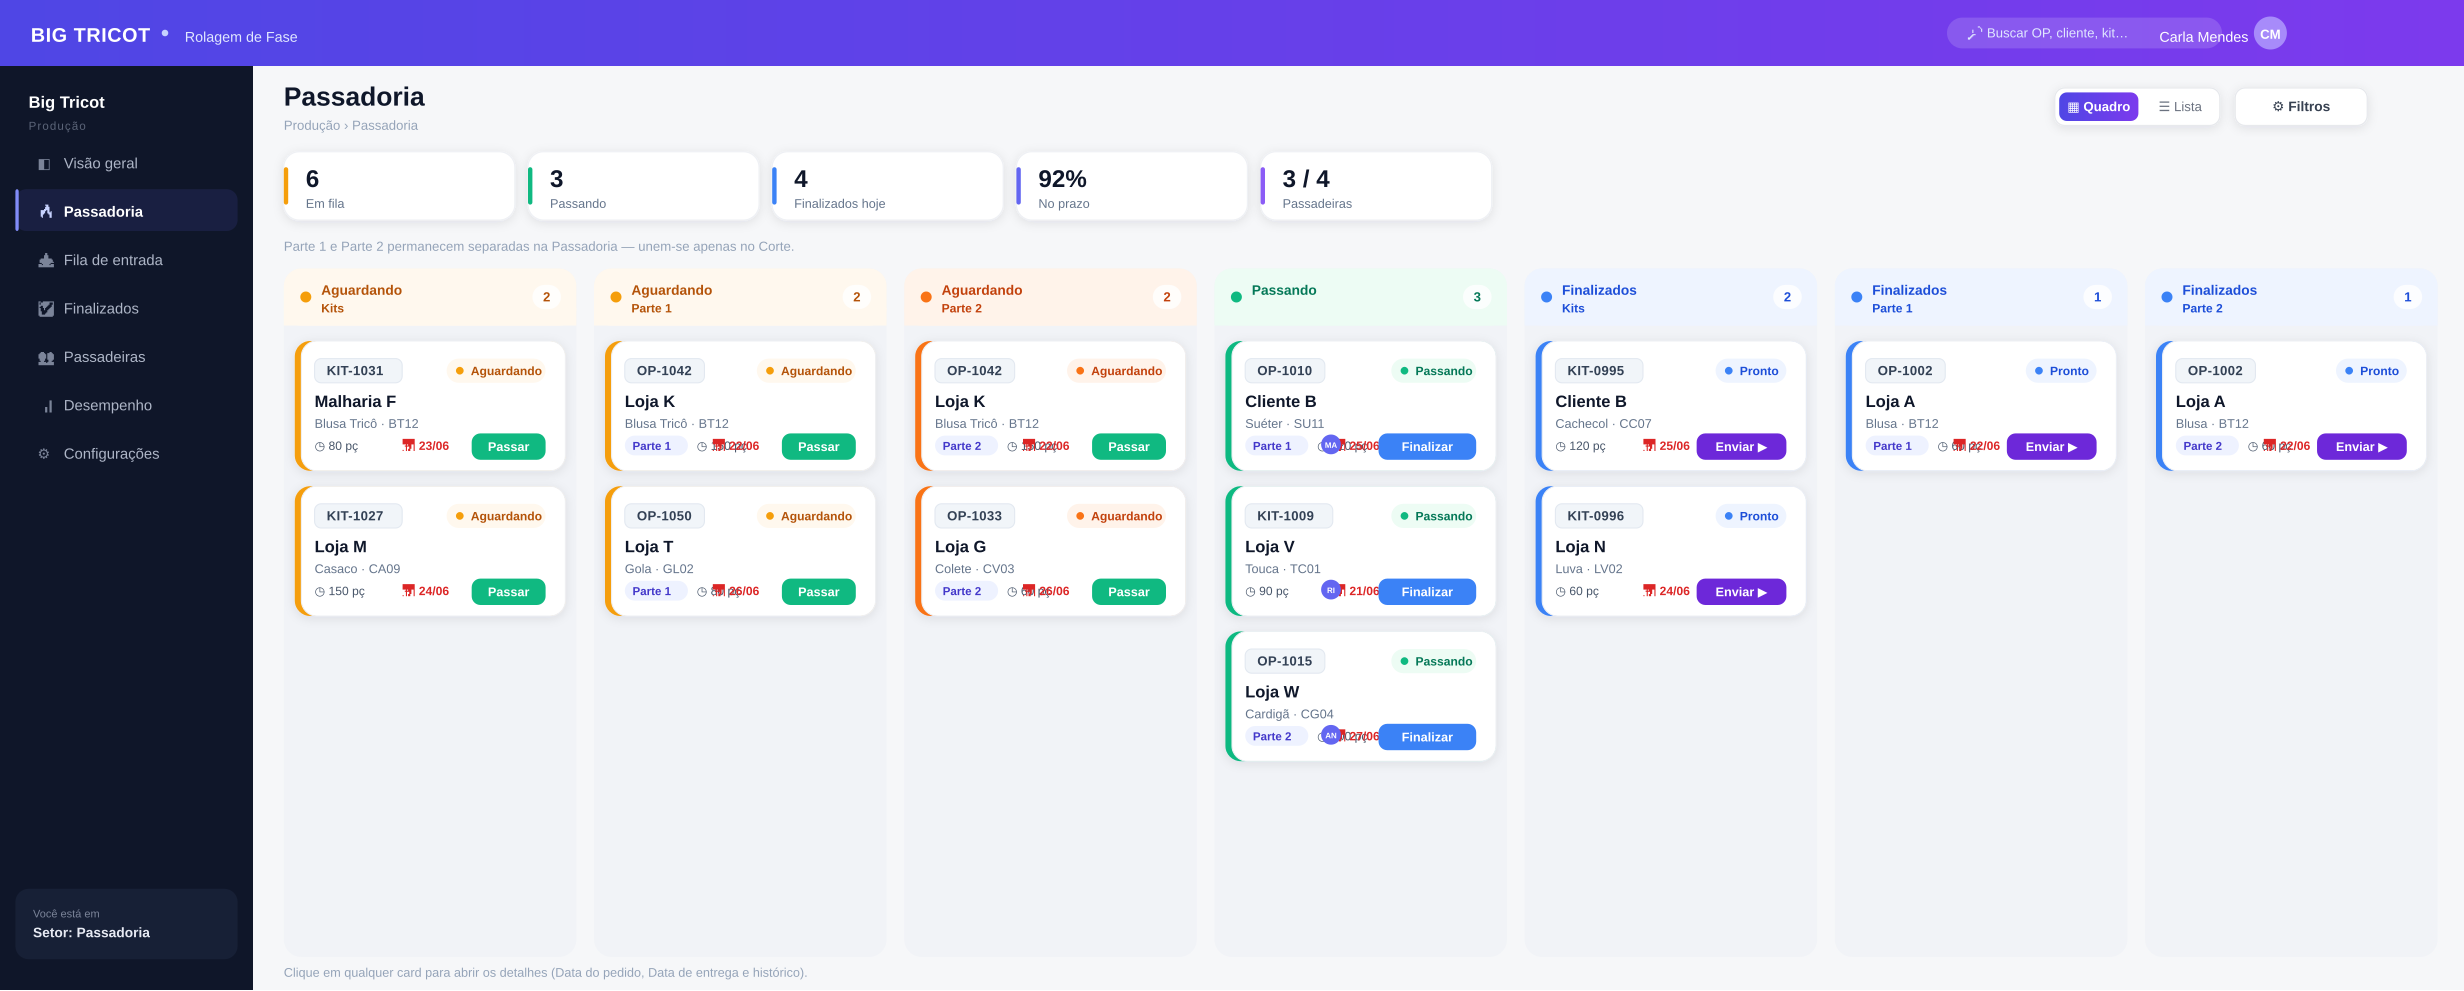
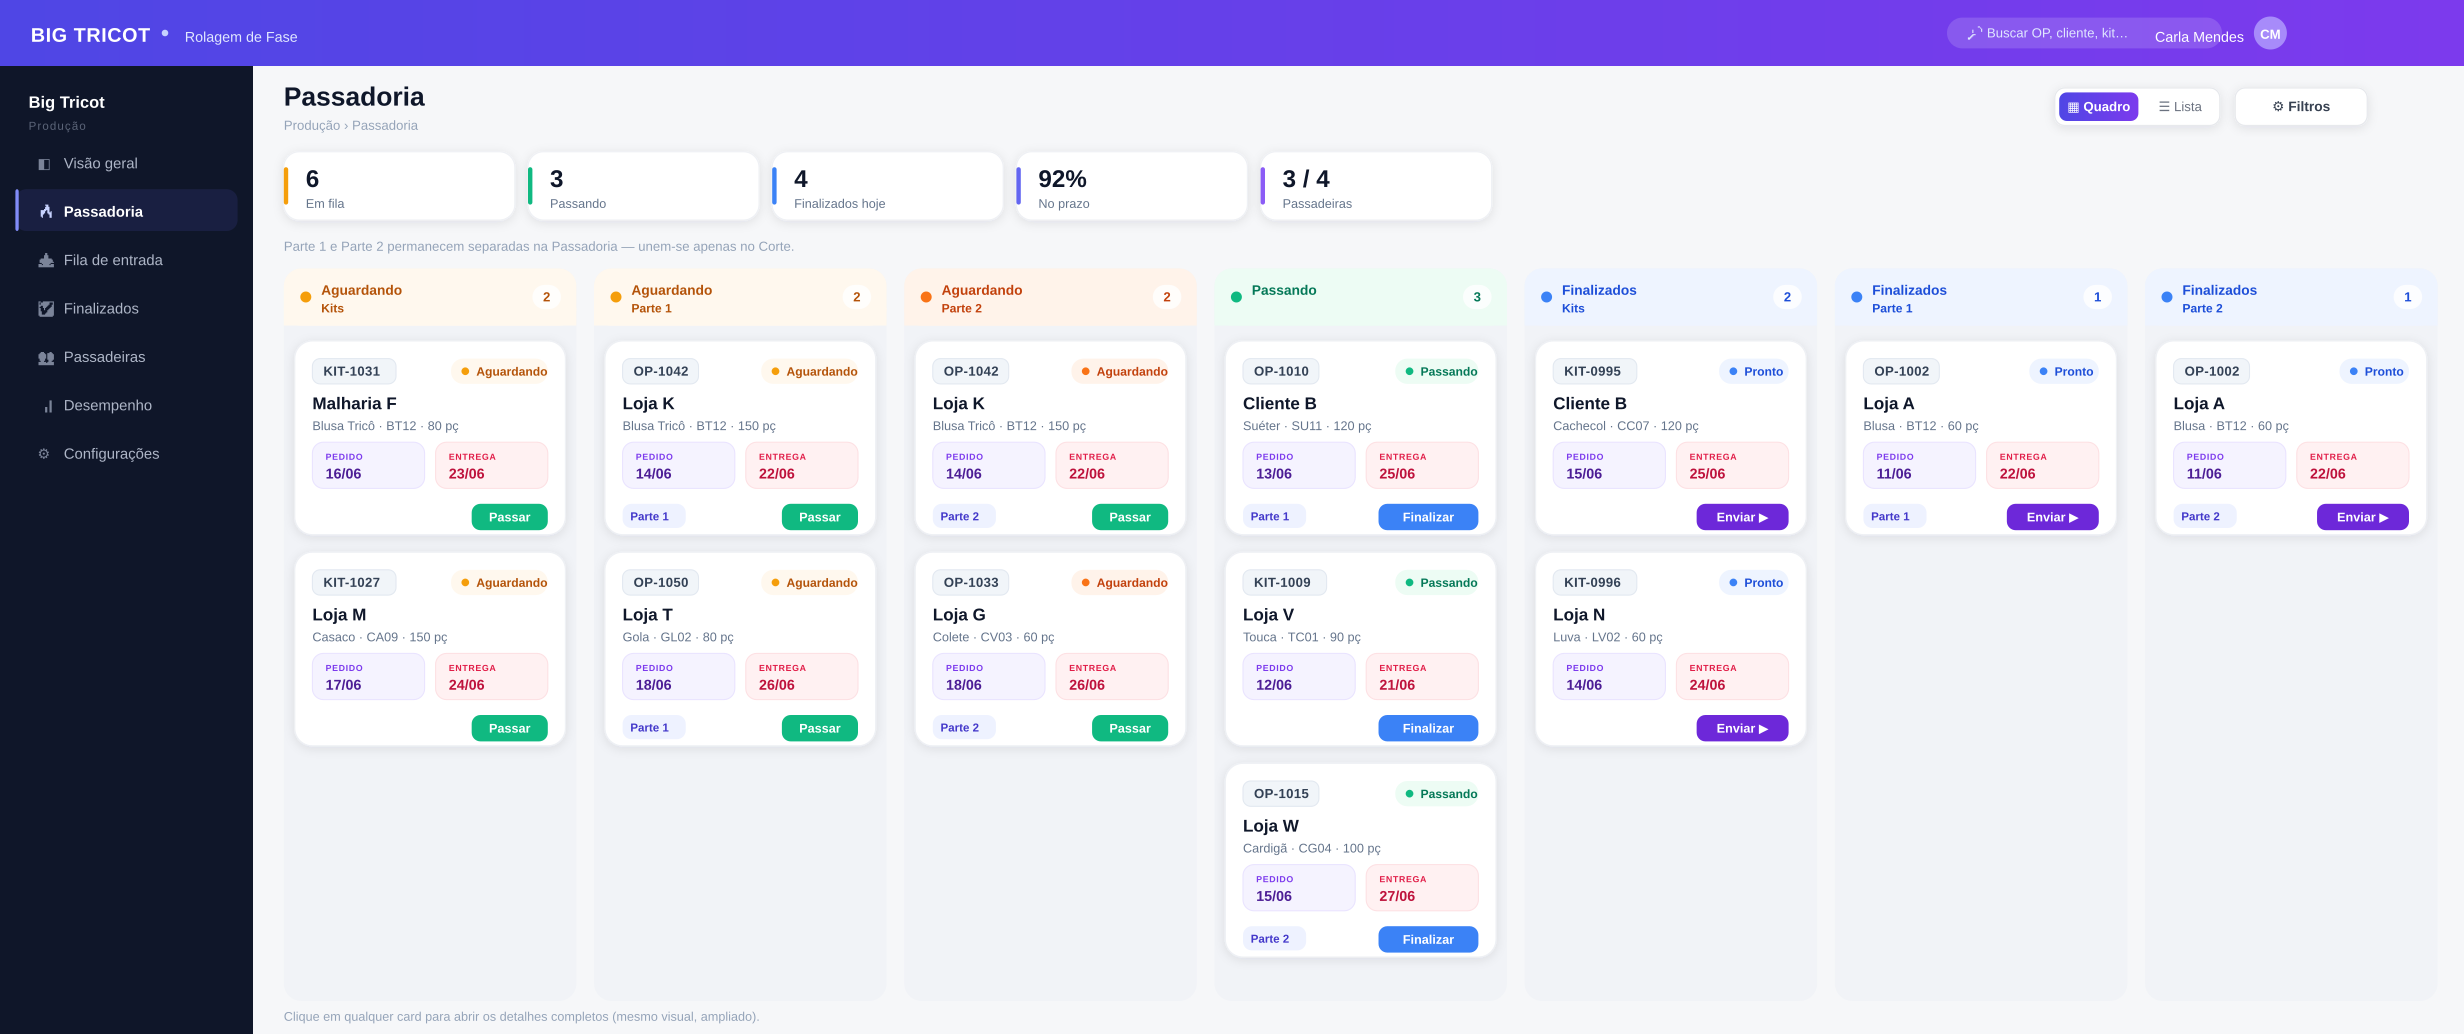
design: card fechado (quadro) com a aparencia do card aberto
- Reverte pop-up para a versao limpa anterior (sem listra)
- Redesenha cartoes do quadro no estilo do card aberto: chip da OP,
  caixinhas suaves de Data do pedido / Data de entrega, sem listra lateral
- Adiciona close-up do card fechado (24-card-fechado.png)

Claude-Session: https://claude.ai/code/session_01XdKmwhB2iKVzR9dcT8XvFF

diff --git a/scripts/gen_passadoria_v2.py b/scripts/gen_passadoria_v2.py
@@ -8,161 +8,136 @@ def rect(x,y,w,h,fill,rx=0,stroke=None,sw=1,filt=None,op=None):
     if filt: s+=f' filter="url(#{filt})"'
     if op is not None: s+=f' fill-opacity="{op}"'
     return s+'/>'
-def text(x,y,s,size=13,fill="#0f172a",weight="normal",anchor="start",ls=None,fam=None):
+def text(x,y,s,size=13,fill="#0f172a",weight="normal",anchor="start",ls=None):
     extra=f' letter-spacing="{ls}"' if ls else ''
     return f'<text x="{x}" y="{y}" font-size="{size}" fill="{fill}" font-weight="{weight}" text-anchor="{anchor}"{extra}>{esc(s)}</text>'
-def circle(cx,cy,r,fill,stroke=None,sw=1):
-    s=f'<circle cx="{cx}" cy="{cy}" r="{r}" fill="{fill}"'
-    if stroke: s+=f' stroke="{stroke}" stroke-width="{sw}"'
-    return s+'/>'
-
+def circle(cx,cy,r,fill):
+    return f'<circle cx="{cx}" cy="{cy}" r="{r}" fill="{fill}"/>'
 DEFS=('<defs>'
  '<linearGradient id="hg" x1="0" y1="0" x2="1" y2="0">'
  '<stop offset="0" stop-color="#4f46e5"/><stop offset="1" stop-color="#7c3aed"/></linearGradient>'
  '<filter id="cardShadow" x="-30%" y="-30%" width="160%" height="160%">'
  '<feDropShadow dx="0" dy="2" stdDeviation="5" flood-color="#0f172a" flood-opacity="0.10"/></filter>'
- '<filter id="softShadow" x="-30%" y="-30%" width="160%" height="160%">'
- '<feDropShadow dx="0" dy="6" stdDeviation="14" flood-color="#1e1b4b" flood-opacity="0.16"/></filter>'
  '</defs>')
-
 def svg(w,h,body,bg="#f6f7f9"):
     return (f'<svg xmlns="http://www.w3.org/2000/svg" width="{w}" height="{h}" viewBox="0 0 {w} {h}" '
             f'font-family="Inter, Segoe UI, Helvetica, Arial, sans-serif">'+DEFS+rect(0,0,w,h,bg)+body+'</svg>')
-
-def chip(x,y,label,bg,fg,fs=11,h=20,bold=True,pad=10):
-    w=pad*2+len(label)*fs*0.56
-    return rect(x,y,w,h,bg,rx=h/2)+text(x+pad,y+h/2+fs*0.35,label,fs,fg,weight="bold" if bold else "normal"), w
-
 def avatar(cx,cy,r,initials,fill="#6366f1"):
     return circle(cx,cy,r,fill)+text(cx,cy+r*0.35,initials,r*0.8,"#fff",weight="bold",anchor="middle")
 
-W,H=2240,900
-b=""
-# ---- topbar ----
-b+=rect(0,0,W,60,"url(#hg)")
-b+=text(28,38,"BIG TRICOT",18,"#fff",weight="bold",ls="0.5")
-b+=circle(150,30,3,"#c7d2fe")
-b+=text(168,38,"Rolagem de Fase",13,"#e0e7ff")
-# search
-b+=rect(W-470,16,250,28,"#ffffff26",rx=14)+text(W-452,34,"🔎  Buscar OP, cliente, kit…",12,"#e0e7ff")
-b+=text(W-196,38,"Carla Mendes",13,"#fff",anchor="end")
-b+=text(W-196,38,"",1,"#fff")
-b+=avatar(W-176,30,15,"CM","#a78bfa")
-# ---- sidebar ----
-b+=rect(0,60,230,H-60,"#0f1629")
-b+=text(26,98,"Big Tricot",15,"#fff",weight="bold")
-b+=text(26,118,"Produção",10.5,"#5b6478",ls="1")
-nav=[("◧","Visão geral",False),("🔥","Passadoria",True),("📥","Fila de entrada",False),
-     ("✅","Finalizados",False),("👥","Passadeiras",False),("📊","Desempenho",False),("⚙","Configurações",False)]
-y=150
-for ic,label,act in nav:
-    if act:
-        b+=rect(14,y-22,202,38,"#6366f11f",rx=10)+rect(14,y-22,3,38,"#818cf8",rx=2)
-        b+=text(34,y+3,ic,13,"#c7d2fe")+text(58,y+3,label,13.5,"#fff",weight="bold")
-    else:
-        b+=text(34,y+3,ic,13,"#7b8499")+text(58,y+3,label,13.5,"#aeb6c7")
-    y+=44
-b+=rect(14,H-92,202,64,"#172036",rx=12)
-b+=text(30,H-66,"Você está em",10,"#7b8499")+text(30,H-48,"Setor: Passadoria",12.5,"#e7eaf3",weight="bold")
-# ---- header / toolbar ----
-b+=text(258,96,"Passadoria",24,"#0f172a",weight="bold")
-b+=text(258,118,"Produção  ›  Passadoria",12,"#94a3b8")
-# view toggle + filtros
-b+=rect(W-372,80,150,34,"#ffffff",rx=9,stroke="#e5e7eb",filt="cardShadow")
-b+=rect(W-368,84,72,26,"url(#hg)",rx=7)+text(W-332,101,"▦ Quadro",12,"#fff",weight="bold",anchor="middle")
-b+=text(W-258,101,"☰ Lista",12,"#6b7280",anchor="middle")
-b+=rect(W-208,80,120,34,"#ffffff",rx=9,stroke="#e5e7eb",filt="cardShadow")+text(W-148,101,"⚙  Filtros",12.5,"#374151",weight="bold",anchor="middle")
-# ---- KPI strip ----
-kpis=[("Em fila","6","#f59e0b"),("Passando","3","#10b981"),("Finalizados hoje","4","#3b82f6"),
-      ("No prazo","92%","#6366f1"),("Passadeiras","3 / 4","#8b5cf6")]
-x=258
-for l,n,c in kpis:
-    b+=rect(x,138,210,62,"#ffffff",rx=14,stroke="#eef0f4",filt="cardShadow")
-    b+=rect(x,152,4,34,c,rx=2)
-    b+=text(x+20,170,n,22,"#0f172a",weight="bold")
-    b+=text(x+20,189,l,11.5,"#64748b")
-    x+=222
-b+=text(258,228,"Parte 1 e Parte 2 permanecem separadas na Passadoria — unem-se apenas no Corte.",12,"#94a3b8")
-# ---- board ----
 TINT={"amber":("#fff8ee","#f59e0b","#b45309"),"orange":("#fff3ea","#f97316","#c2410c"),
       "emerald":("#edfcf4","#10b981","#047857"),"blue":("#eef4ff","#3b82f6","#1d4ed8")}
-def card(x,y,cw,op_prefix,op_num,client,product,qty,part,stripe,status_label,status_key,
-         action,due=None,who=None,passadeira_time=None):
-    ch=118
-    scol={"amber":"#f59e0b","orange":"#f97316","emerald":"#10b981","blue":"#3b82f6"}[stripe]
-    # base colorida + card branco por cima = borda lateral arredondada que acompanha o card
-    s=rect(x,y,cw,ch,scol,rx=14,filt="cardShadow")
-    s+=rect(x+6,y,cw-6,ch,"#ffffff",rx=14,stroke="#eef0f4")
-    # OP chip
+
+# ---------- CARD FECHADO no estilo do card aberto ----------
+def card(x,y,cw,op_prefix,op_num,client,product,qty,part,status_label,status_key,action,pedido_date,due_date,who=None):
+    ch=176
+    s=rect(x,y,cw,ch,"#ffffff",rx=16,stroke="#eef0f4",filt="cardShadow")
+    # top: OP chip + status pill
     code=f"{op_prefix}-{op_num}"
-    cw_chip=22+len(code)*7.2
-    s+=rect(x+18,y+16,cw_chip,22,"#f1f5f9",rx=6,stroke="#e2e8f0")
-    s+=text(x+18+11,y+31,code,12,"#334155",weight="bold",ls="0.3")
-    # status pill
+    cwid=20+len(code)*7.0
+    s+=rect(x+16,y+16,cwid,23,"#f1f5f9",rx=7,stroke="#e2e8f0")
+    s+=text(x+16+10,y+31.5,code,12,"#334155",weight="bold",ls="0.3")
     bg,dot,fg=TINT[status_key]
-    sp_w=26+len(status_label)*6.4
-    s+=rect(x+cw-18-sp_w,y+16,sp_w,22,bg,rx=11)
-    s+=circle(x+cw-18-sp_w+12,y+27,3.5,dot)
-    s+=text(x+cw-18-sp_w+22,y+31,status_label,11,fg,weight="bold")
-    # client
-    s+=text(x+18,y+60,client,15,"#0f172a",weight="bold")
-    # product
-    s+=text(x+18,y+79,product,11.5,"#64748b")
-    # footer
-    fy=y+99
+    sp_w=26+len(status_label)*6.2
+    s+=rect(x+cw-16-sp_w,y+16,sp_w,23,bg,rx=11)
+    s+=circle(x+cw-16-sp_w+13,y+27.5,3.5,dot)
+    s+=text(x+cw-16-sp_w+23,y+31.5,status_label,11,fg,weight="bold")
+    # client + product
+    s+=text(x+16,y+62,client,15.5,"#0f172a",weight="bold")
+    prod=f"{product} · {qty} pç"
+    s+=text(x+16,y+81,prod,11.5,"#64748b")
+    # date mini-boxes (estilo do card aberto)
+    bw=(cw-32-10)/2; by=y+92
+    s+=rect(x+16,by,bw,42,"#f5f3ff",rx=10,stroke="#e9e3ff")
+    s+=text(x+16+12,by+16,"PEDIDO",8,"#7c3aed",weight="bold",ls="0.6")
+    s+=text(x+16+12,by+33,pedido_date,13,"#4c1d95",weight="bold")
+    s+=rect(x+16+bw+10,by,bw,42,"#fff1f2",rx=10,stroke="#fde0e3")
+    s+=text(x+16+bw+10+12,by+16,"ENTREGA",8,"#e11d48",weight="bold",ls="0.6")
+    s+=text(x+16+bw+10+12,by+33,due_date,13,"#be123c",weight="bold")
+    # footer: part tag + action
+    fy=y+ch-28
     if part:
         pw=14+len(part)*6.2
-        s+=rect(x+18,fy-13,pw,18,"#eef2ff",rx=9)+text(x+18+7,fy,part,10.5,"#4338ca",weight="bold")
-        fx=x+18+pw+8
-    else: fx=x+18
-    s+=text(fx,fy,f"◷ {qty} pç",11,"#475569")
-    if due:
-        s+=text(x+cw-150,fy,f"📅 {due}",11,"#dc2626",weight="bold") if due_red else ""
-    # action button
+        s+=rect(x+16,fy,pw,22,"#eef2ff",rx=8)+text(x+16+7,fy+15,part,10.5,"#4338ca",weight="bold")
     lab,col={"start":("Passar","#10b981"),"stop":("Finalizar","#3b82f6"),"send":("Enviar ▶","#6d28d9")}[action]
-    bwid=24+len(lab)*7.2
-    s+=rect(x+cw-18-bwid,fy-15,bwid,24,col,rx=8)+text(x+cw-18-bwid/2,fy+1,lab,11.5,"#fff",weight="bold",anchor="middle")
-    if who:
-        s+=avatar(x+cw-150,fy-5,9,who,"#6366f1")
+    bwid=26+len(lab)*7.2
+    s+=rect(x+cw-16-bwid,fy,bwid,24,col,rx=8)+text(x+cw-16-bwid/2,fy+16,lab,11.5,"#fff",weight="bold",anchor="middle")
     return s
 
-due_red=True
-cols=[
- ("Aguardando · Kits","amber",[("KIT","1031","Malharia F","Blusa Tricô · BT12",80,None,"amber","Aguardando","amber","start","23/06",None),
-                               ("KIT","1027","Loja M","Casaco · CA09",150,None,"amber","Aguardando","amber","start","24/06",None)]),
- ("Aguardando · Parte 1","amber",[("OP","1042","Loja K","Blusa Tricô · BT12",150,"Parte 1","amber","Aguardando","amber","start","22/06",None),
-                                  ("OP","1050","Loja T","Gola · GL02",80,"Parte 1","amber","Aguardando","amber","start","26/06",None)]),
- ("Aguardando · Parte 2","orange",[("OP","1042","Loja K","Blusa Tricô · BT12",150,"Parte 2","orange","Aguardando","orange","start","22/06",None),
-                                   ("OP","1033","Loja G","Colete · CV03",60,"Parte 2","orange","Aguardando","orange","start","26/06",None)]),
- ("Passando","emerald",[("OP","1010","Cliente B","Suéter · SU11",120,"Parte 1","emerald","Passando","emerald","stop","25/06","MA"),
-                        ("KIT","1009","Loja V","Touca · TC01",90,None,"emerald","Passando","emerald","stop","21/06","RI"),
-                        ("OP","1015","Loja W","Cardigã · CG04",100,"Parte 2","emerald","Passando","emerald","stop","27/06","AN")]),
- ("Finalizados · Kits","blue",[("KIT","0995","Cliente B","Cachecol · CC07",120,None,"blue","Pronto","blue","send","25/06",None),
-                               ("KIT","0996","Loja N","Luva · LV02",60,None,"blue","Pronto","blue","send","24/06",None)]),
- ("Finalizados · Parte 1","blue",[("OP","1002","Loja A","Blusa · BT12",60,"Parte 1","blue","Pronto","blue","send","22/06",None)]),
- ("Finalizados · Parte 2","blue",[("OP","1002","Loja A","Blusa · BT12",60,"Parte 2","blue","Pronto","blue","send","22/06",None)]),
-]
-x0=258; cw=266; gap=16; ytop=244
-for ci,(title,key,cards) in enumerate(cols):
-    x=x0+ci*(cw+gap)
-    bgt,dot,fg=TINT[key]
-    colh=H-ytop-30
-    b+=rect(x,ytop,cw,colh,"#f1f3f7",rx=16)
-    # header
-    b+=rect(x,ytop,cw,52,bgt,rx=16)+rect(x,ytop+36,cw,16,bgt)
-    b+=circle(x+20,ytop+26,5,dot)
-    b+=text(x+34,ytop+24,title.split(" · ")[0],12.5,fg,weight="bold")
-    sub=title.split(" · ")[1] if " · " in title else ""
-    if sub: b+=text(x+34,ytop+40,sub,11,fg,weight="bold")
-    cnt=str(len(cards))
-    b+=rect(x+cw-40,ytop+15,26,22,"#ffffffcc",rx=11)+text(x+cw-27,ytop+30,cnt,12,fg,weight="bold",anchor="middle")
-    cy=ytop+66
-    for (pf,num,cl,pr,qt,pt,st,sl,sk,ac,du,wh) in cards:
-        b+=card(x+10,cy,cw-20,pf,num,cl,pr,qt,pt,st,sl,sk,ac,du,wh)
-        cy+=132
-b+=text(258,H-12,"Clique em qualquer card para abrir os detalhes (Data do pedido, Data de entrega e histórico).",11.5,"#94a3b8")
+def build_board():
+    W,H=2240,940
+    b=""
+    b+=rect(0,0,W,60,"url(#hg)")
+    b+=text(28,38,"BIG TRICOT",18,"#fff",weight="bold",ls="0.5")
+    b+=circle(150,30,3,"#c7d2fe")+text(168,38,"Rolagem de Fase",13,"#e0e7ff")
+    b+=rect(W-470,16,250,28,"#ffffff26",rx=14)+text(W-452,34,"🔎  Buscar OP, cliente, kit…",12,"#e0e7ff")
+    b+=text(W-200,38,"Carla Mendes",13,"#fff",anchor="end")+avatar(W-176,30,15,"CM","#a78bfa")
+    b+=rect(0,60,230,H-60,"#0f1629")
+    b+=text(26,98,"Big Tricot",15,"#fff",weight="bold")+text(26,118,"Produção",10.5,"#5b6478",ls="1")
+    nav=[("◧","Visão geral",False),("🔥","Passadoria",True),("📥","Fila de entrada",False),
+         ("✅","Finalizados",False),("👥","Passadeiras",False),("📊","Desempenho",False),("⚙","Configurações",False)]
+    y=150
+    for ic,label,act in nav:
+        if act:
+            b+=rect(14,y-22,202,38,"#6366f11f",rx=10)+rect(14,y-22,3,38,"#818cf8",rx=2)
+            b+=text(34,y+3,ic,13,"#c7d2fe")+text(58,y+3,label,13.5,"#fff",weight="bold")
+        else:
+            b+=text(34,y+3,ic,13,"#7b8499")+text(58,y+3,label,13.5,"#aeb6c7")
+        y+=44
+    b+=text(258,96,"Passadoria",24,"#0f172a",weight="bold")
+    b+=text(258,118,"Produção  ›  Passadoria",12,"#94a3b8")
+    b+=rect(W-372,80,150,34,"#ffffff",rx=9,stroke="#e5e7eb",filt="cardShadow")
+    b+=rect(W-368,84,72,26,"url(#hg)",rx=7)+text(W-332,101,"▦ Quadro",12,"#fff",weight="bold",anchor="middle")
+    b+=text(W-258,101,"☰ Lista",12,"#6b7280",anchor="middle")
+    b+=rect(W-208,80,120,34,"#ffffff",rx=9,stroke="#e5e7eb",filt="cardShadow")+text(W-148,101,"⚙  Filtros",12.5,"#374151",weight="bold",anchor="middle")
+    kpis=[("Em fila","6","#f59e0b"),("Passando","3","#10b981"),("Finalizados hoje","4","#3b82f6"),
+          ("No prazo","92%","#6366f1"),("Passadeiras","3 / 4","#8b5cf6")]
+    x=258
+    for l,n,c in kpis:
+        b+=rect(x,138,210,62,"#ffffff",rx=14,stroke="#eef0f4",filt="cardShadow")
+        b+=rect(x,152,4,34,c,rx=2)+text(x+20,170,n,22,"#0f172a",weight="bold")+text(x+20,189,l,11.5,"#64748b")
+        x+=222
+    b+=text(258,228,"Parte 1 e Parte 2 permanecem separadas na Passadoria — unem-se apenas no Corte.",12,"#94a3b8")
+    cols=[
+     ("Aguardando · Kits","amber",[("KIT","1031","Malharia F","Blusa Tricô · BT12",80,None,"Aguardando","amber","start","16/06","23/06"),
+                                   ("KIT","1027","Loja M","Casaco · CA09",150,None,"Aguardando","amber","start","17/06","24/06")]),
+     ("Aguardando · Parte 1","amber",[("OP","1042","Loja K","Blusa Tricô · BT12",150,"Parte 1","Aguardando","amber","start","14/06","22/06"),
+                                      ("OP","1050","Loja T","Gola · GL02",80,"Parte 1","Aguardando","amber","start","18/06","26/06")]),
+     ("Aguardando · Parte 2","orange",[("OP","1042","Loja K","Blusa Tricô · BT12",150,"Parte 2","Aguardando","orange","start","14/06","22/06"),
+                                       ("OP","1033","Loja G","Colete · CV03",60,"Parte 2","Aguardando","orange","start","18/06","26/06")]),
+     ("Passando","emerald",[("OP","1010","Cliente B","Suéter · SU11",120,"Parte 1","Passando","emerald","stop","13/06","25/06"),
+                            ("KIT","1009","Loja V","Touca · TC01",90,None,"Passando","emerald","stop","12/06","21/06"),
+                            ("OP","1015","Loja W","Cardigã · CG04",100,"Parte 2","Passando","emerald","stop","15/06","27/06")]),
+     ("Finalizados · Kits","blue",[("KIT","0995","Cliente B","Cachecol · CC07",120,None,"Pronto","blue","send","15/06","25/06"),
+                                   ("KIT","0996","Loja N","Luva · LV02",60,None,"Pronto","blue","send","14/06","24/06")]),
+     ("Finalizados · Parte 1","blue",[("OP","1002","Loja A","Blusa · BT12",60,"Parte 1","Pronto","blue","send","11/06","22/06")]),
+     ("Finalizados · Parte 2","blue",[("OP","1002","Loja A","Blusa · BT12",60,"Parte 2","Pronto","blue","send","11/06","22/06")]),
+    ]
+    x0=258; cw=266; gap=16; ytop=244
+    for ci,(title,key,cards) in enumerate(cols):
+        x=x0+ci*(cw+gap); bgt,dot,fg=TINT[key]; colh=H-ytop-30
+        b+=rect(x,ytop,cw,colh,"#f1f3f7",rx=16)
+        b+=rect(x,ytop,cw,52,bgt,rx=16)+rect(x,ytop+36,cw,16,bgt)
+        b+=circle(x+20,ytop+26,5,dot)+text(x+34,ytop+24,title.split(" · ")[0],12.5,fg,weight="bold")
+        sub=title.split(" · ")[1] if " · " in title else ""
+        if sub: b+=text(x+34,ytop+40,sub,11,fg,weight="bold")
+        b+=rect(x+cw-40,ytop+15,26,22,"#ffffffcc",rx=11)+text(x+cw-27,ytop+30,str(len(cards)),12,fg,weight="bold",anchor="middle")
+        cy=ytop+66
+        for (pf,num,cl,pr,qt,pt,sl,sk,ac,pd,du) in cards:
+            b+=card(x+10,cy,cw-20,pf,num,cl,pr,qt,pt,sl,sk,ac,pd,du)
+            cy+=192
+    b+=text(258,H-12,"Clique em qualquer card para abrir os detalhes completos (mesmo visual, ampliado).",11.5,"#94a3b8")
+    return svg(W,H,b)
+
+def build_closeup():
+    # close-up de um card fechado para o cliente avaliar o acabamento
+    W,Hc=360,250
+    b=card(40,40,280,"OP","1042","Loja K","Blusa Tricô · BT12",150,"Parte 1","Aguardando","amber","start","14/06","22/06")
+    return svg(W,Hc,b,bg="#eef0f5")
 
 os.makedirs(OUT_SVG,exist_ok=True)
-p=os.path.join(OUT_SVG,"22-setor-passadoria.svg"); open(p,"w").write(svg(W,H,b))
+p=os.path.join(OUT_SVG,"22-setor-passadoria.svg"); open(p,"w").write(build_board())
 subprocess.run(["rsvg-convert","-z","1.1",p,"-o",os.path.join(OUT_PNG,"22-setor-passadoria.png")],check=True)
-print("OK passadoria v2")
+p2=os.path.join(OUT_SVG,"24-card-fechado.svg"); open(p2,"w").write(build_closeup())
+subprocess.run(["rsvg-convert","-z","2.6",p2,"-o",os.path.join(OUT_PNG,"24-card-fechado.png")],check=True)
+print("OK passadoria + closeup")

diff --git a/scripts/gen_popup_v2.py b/scripts/gen_popup_v2.py
@@ -34,12 +34,9 @@ b+=text(168,38,"Rolagem de Fase",13,"#e0e7ff")+text(W-28,38,"Carla Mendes",13,"#
 b+=rect(0,60,W,H-60,"#eceef3")
 # ---- modal ----
 mw,mh=620,620; mx=(W-mw)/2; my=110
-STRIPE="#10b981"  # cor de identidade do card (status Passando) — listra vertical
-# base colorida + modal branco por cima = listra lateral arredondada integrada
-b+=rect(mx,my,mw,mh,STRIPE,rx=22,filt="modalShadow")
-b+=rect(mx+9,my,mw-9,mh,"#ffffff",rx=22)
-# header gradient (inset para deixar a listra aparecer)
-b+=rect(mx+9,my,mw-9,108,"url(#hg)",rx=22)+rect(mx+9,my+70,mw-9,38,"url(#hg)")
+b+=rect(mx,my,mw,mh,"#ffffff",rx=22,filt="modalShadow")
+# header gradient
+b+=rect(mx,my,mw,108,"url(#hg)",rx=22)+rect(mx,my+70,mw,38,"url(#hg)")
 # OP chip
 b+=rect(mx+28,my+24,96,26,"#ffffff2e",rx=8)+text(mx+28+14,my+42,"OP-1042",13,"#fff",weight="bold",ls="0.4")
 # part badge
